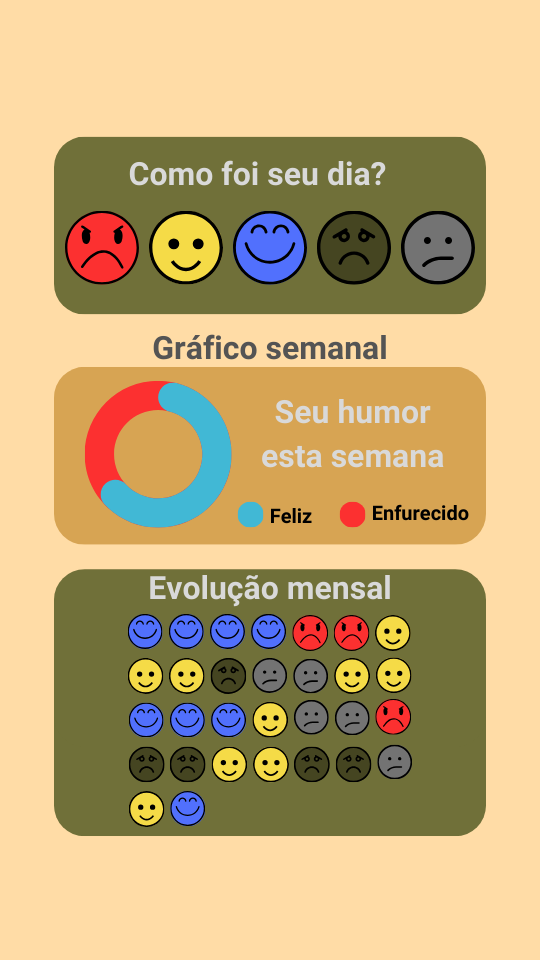
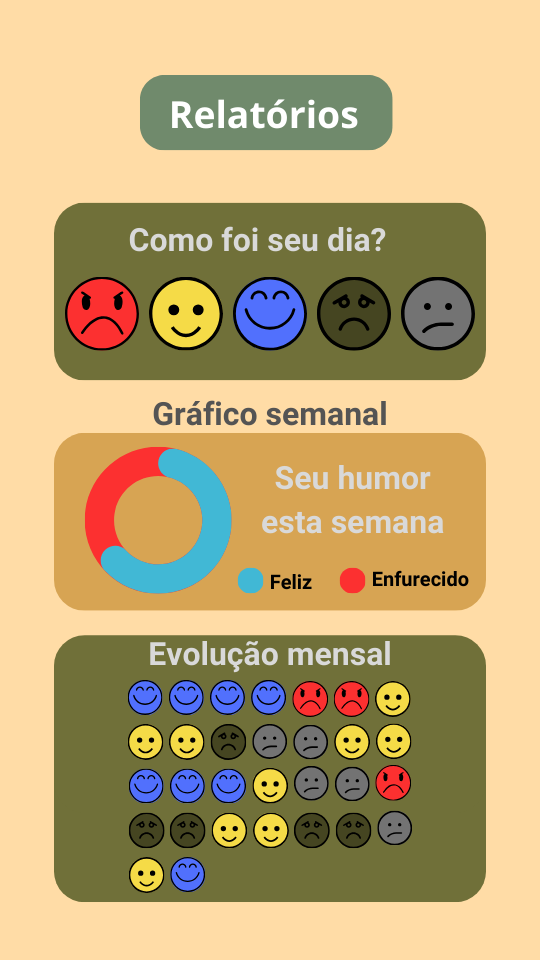
update telas conversas, relatorios e tarefas

diff --git a/src/screens/tabs/index.tsx b/src/screens/tabs/index.tsx
@@ -1,7 +1,7 @@
 import { createBottomTabNavigator } from '@react-navigation/bottom-tabs'
 import { Ionicons } from '@expo/vector-icons'
 import Menu from './menu'
-import Agenda from './agenda'
+import Tarefas from './tarefas'
 import Conversas from './conversas'
 import Usuario from './usuario'
 import Relatorios from './relatorios'
@@ -18,26 +18,26 @@ export default function TabsScreen() {
             name="Menu"
             component={Menu}
             options={{
-               title: 'Menu',
+               title: '',
                tabBarIcon: ({ focused }: any) => (
                   <Ionicons
                      name="menu-outline"
-                     size={20}
-                     color={focused ? '#1C80FF' : '#000'}
+                     size={30}
+                     color={focused ? '#f13e56' : '#929292'}
                   />
                ),
             }}
          />
          <Tabs.Screen
-            name="Agenda"
-            component={Agenda}
+            name="Tarefas"
+            component={Tarefas}
             options={{
-               title: 'Agenda',
+               title: '',
                tabBarIcon: ({ focused }: any) => (
                   <Ionicons
                      name="calendar-outline"
-                     size={20}
-                     color={focused ? '#1C80FF' : '#000'}
+                     size={30}
+                     color={focused ? '#f13e56' : '#929292'}
                   />
                ),
             }}
@@ -46,12 +46,12 @@ export default function TabsScreen() {
             name="Relatórios"
             component={Relatorios}
             options={{
-               title: 'Relatórios',
+               title: '',
                tabBarIcon: ({ focused }: any) => (
                   <Ionicons
                      name="happy-outline"
-                     size={20}
-                     color={focused ? '#1C80FF' : '#000'}
+                     size={30}
+                     color={focused ? '#f13e56' : '#929292'}
                   />
                ),
             }}
@@ -60,12 +60,12 @@ export default function TabsScreen() {
             name="Conversas"
             component={Conversas}
             options={{
-               title: 'Canais de Conversas',
+               title: '',
                tabBarIcon: ({ focused }: any) => (
                   <Ionicons
                      name="chatbubbles-outline"
-                     size={20}
-                     color={focused ? '#1C80FF' : '#000'}
+                     size={30}
+                     color={focused ? '#f13e56' : '#929292'}
                   />
                ),
             }}
@@ -74,12 +74,12 @@ export default function TabsScreen() {
             name="Usuário"
             component={Usuario}
             options={{
-               title: 'Usuário',
+               title: '',
                tabBarIcon: ({ focused }: any) => (
                   <Ionicons
                      name="person-outline"
-                     size={20}
-                     color={focused ? '#1C80FF' : '#000'}
+                     size={30}
+                     color={focused ? '#f13e56' : '#929292'}
                   />
                ),
             }}

diff --git a/src/screens/drawer/index.tsx b/src/screens/drawer/index.tsx
@@ -10,9 +10,8 @@ import libras from './libras'
 import termos from './privacidade-termos'
 import sair from './sair'
 import profissionais from './profissionais'
-import relatorios from './relatorios'
 
-export default function AppOld() {
+export default function DrawerMenu() {
 
    const Drawer = createDrawerNavigator()
 
@@ -50,12 +49,6 @@ export default function AppOld() {
                icone: 'document-text-outline',
                titulo: 'Diário Pessoal',
                componente: diario,
-            })}
-            {tela({
-               nome: 'Relatórios',
-               icone: 'bar-chart-outline',
-               titulo: 'Relatórios',
-               componente: relatorios,
             })}
             {tela({
                nome: 'Tecnicas',

diff --git a/src/screens/tabs/conversas.tsx b/src/screens/tabs/conversas.tsx
@@ -1,9 +1,24 @@
-import { View, Text } from "react-native"
+import { View, Image, StyleSheet, ImageBackground } from "react-native"
 
 export default function Conversas() {
    return (
-      <View>
-         <Text>Canais de Conversas</Text>
+      <View style={styles.container}>
+         <ImageBackground
+            source={require('@/assets/images/screen-conversas.png')}
+            style={styles.background}
+         />
       </View>
    )
 }
+
+const styles = StyleSheet.create({
+   container: {
+      flex: 1,
+   },
+   background: {
+      flex: 1,
+      resizeMode: 'cover',
+      justifyContent: 'center',
+      alignItems: 'center',
+   },
+})

diff --git a/src/screens/tabs/relatorios.tsx b/src/screens/tabs/relatorios.tsx
@@ -1,9 +1,24 @@
-import { View, Text } from "react-native"
+import { View, Image, StyleSheet, ImageBackground } from "react-native"
 
 export default function Relatorios() {
    return (
-      <View>
-         <Text>Relatórios</Text>
+      <View style={styles.container}>
+         <ImageBackground
+            source={require('@/assets/images/screen-relatorios.png')}
+            style={styles.background}
+         />
       </View>
    )
 }
+
+const styles = StyleSheet.create({
+   container: {
+      flex: 1,
+   },
+   background: {
+      flex: 1,
+      resizeMode: 'cover',
+      justifyContent: 'center',
+      alignItems: 'center',
+   },
+})

diff --git a/src/screens/tabs/tarefas.tsx b/src/screens/tabs/tarefas.tsx
@@ -1,10 +1,10 @@
 import { View, Image, StyleSheet, ImageBackground } from "react-native"
 
-export default function Relatorios() {
+export default function Tarefas() {
    return (
       <View style={styles.container}>
          <ImageBackground
-            source={require('@/assets/images/screen-relatorios.png')}
+            source={require('@/assets/images/screen-tarefas.png')}
             style={styles.background}
          />
       </View>
